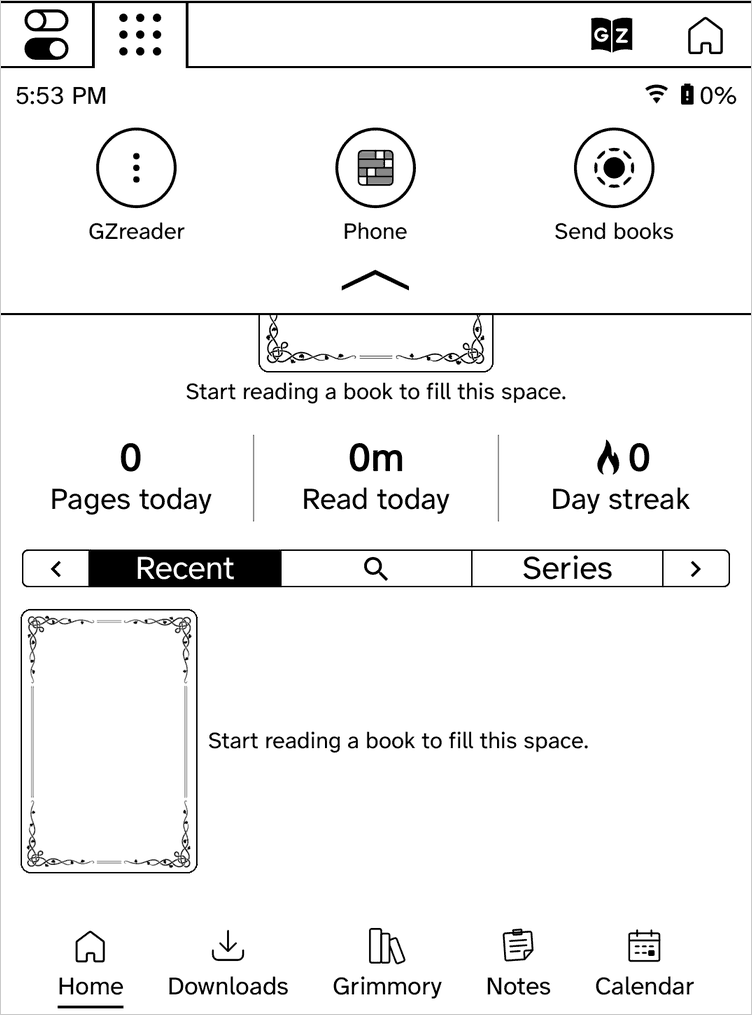
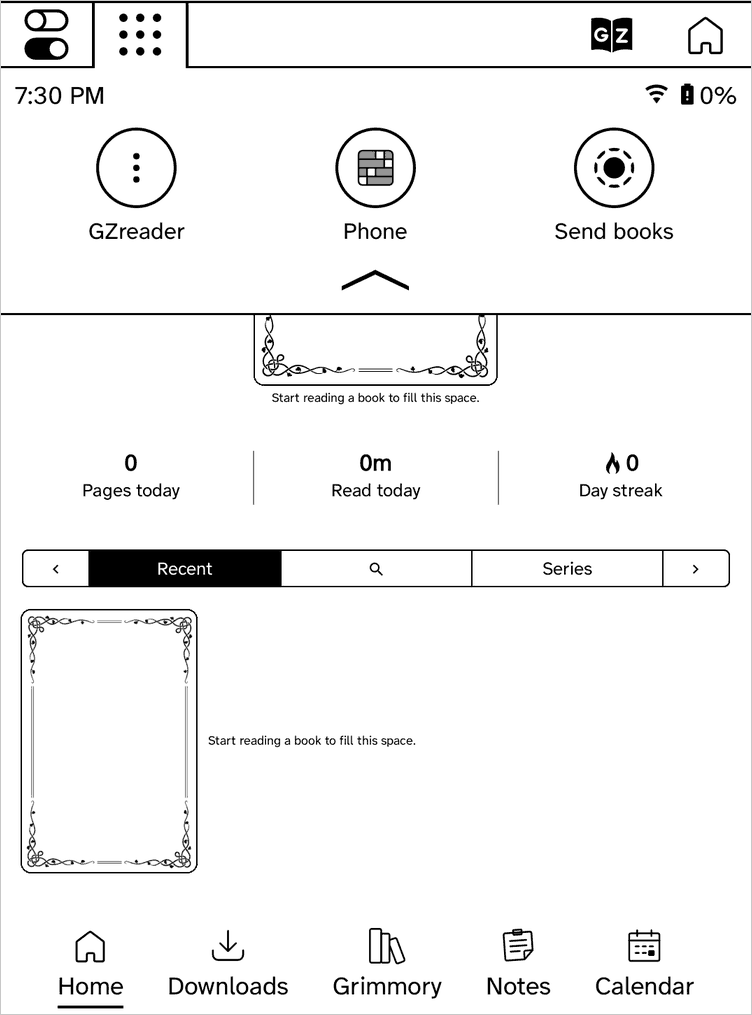
GZreader 1.10.0: read aloud on the Kindle Touch, Paperwhite Home text size, GZreader on the Kindle home
Read aloud on every Kindle with audio (Kindle 2, 3, DX, Touch): a Read
aloud ("Listen") button in ZenOS's quick panel, shown in a book where the
speech service is there, added once to existing panel layouts after Night.
Touch wording for its messages and settings help.

Paperwhite 3: ZenOS passed Screen:scaleBySize()'d sizes to Font:getFace,
which scales again, so Home's stats, strip tabs, placeholder lines, cover
badges, clock and quotes were about 1.8x too big on 1072 px (no change at
600 px). The size arguments are unscaled (45 call sites), the strip
controls' fitting and the badge sizes too.

The Kindle home screen (firmware 5) launcher is documents/GZreader.sh
("GZreader", GZreader's logo) instead of ZenOS's ZenReader.sh ("ZenOS"),
which is removed when found.

Claude-Session: https://claude.ai/code/session_01HqNYrwobY8un97LQ2jriQC

diff --git a/GZREADER.md b/GZREADER.md
@@ -82,7 +82,7 @@ anything fails, the previous files are put back. Then GZreader restarts.
 | Screen | 600 × 800 (DX 824 × 1200), 16 greys | 600 × 800, 16 greys | 600 × 800 | 1072 × 1448, 300 dpi |
 | Faster drawing (shadow screen) | yes | yes | (not needed) | (not needed) |
 | Audiobooks | yes | — (no audio) | yes (player buttons) | — (no audio) |
-| Read aloud (Kindle voice) | yes (Shift + Sym) | — | — | — |
+| Read aloud (Kindle voice) | yes (Shift + Sym) | — | yes (Listen in the quick panel) | — |
 | Volume buttons | yes | — | — | — |
 | Clock | UTC: set Settings → General → Time zone | same | the Kindle's own | the Kindle's own |
 
@@ -134,17 +134,21 @@ run the same GZreader with ZenOS's touch interface:
   right); tap an event for its details, a day in Week or Month to open it.
 - **The phone page:** tap Done on the Kindle when you're done (instead of
   Back).
+- **On the Kindle's own home screen** (firmware 5), GZreader shows as a
+  "GZreader" book with its logo (`documents/GZreader.sh`); tapping it starts
+  GZreader. It replaces ZenOS's "ZenOS" one from earlier versions.
 - **Reading:** tap the right side for the next page, the left side for the
   previous one, the top for the menu (contents, bookmarks, search, fonts…);
   swipe up for the page browser. ZenOS shows a few tips the first time.
 - **Audio:** the Kindle Touch plays audiobooks; the player has buttons for
   chapters, ±30 s, play / pause, sleep timer, volume, the description and
   close (Settings → Reader → Test audiobook playback finds what works on
-  its firmware). The Paperwhite has no speaker or headphone jack, so
-  audiobooks aren't offered there. Read aloud needs the keyboard Kindles'
-  Shift + Sym and their speech service.
+  its firmware). It also reads aloud with the Kindle's voice: in a book,
+  swipe down from the top and tap **Listen** in the quick panel (again to
+  stop); the first time, a short test finds the Kindle's voice. The
+  Paperwhite has no speaker or headphone jack, so neither is offered there.
 - Everything is sized for the screen (the Paperwhite's 1072 × 1448 at 300
-  dpi). The Kindle's own time zone is used (the time zone setting is for the
+  dpi): Home's text is the same size as on a Kindle 3. The Kindle's own time zone is used (the time zone setting is for the
   Kindles without one).
 
 ## Keyboard (Kindle 2, 3, DX)

diff --git a/README.md b/README.md
@@ -176,11 +176,13 @@ browser talking to the emulated Kindle.</sub>
   Filter and More in Notes; ◀ Today ▶ and More in Calendar; tap a checklist item to
   tick it; the note editor with the on-screen keyboard.
 - Sized for each screen (the Paperwhite's 300 dpi). The Kindle Touch plays
-  audiobooks with the player's buttons; the Paperwhite has no audio.
+  audiobooks with the player's buttons and reads aloud from the quick panel; the
+  Paperwhite has no audio.
 
-### 🔊 Read aloud (Kindle 2, 3, DX)
+### 🔊 Read aloud (Kindle 2, 3, DX, Touch)
 - Uses the **Kindle's own voice**. **Shift + Sym** starts and stops, like the stock
-  Kindle's Text-to-Speech.
+  Kindle's Text-to-Speech; on the Kindle Touch, **Listen** in the quick panel (swipe
+  down from the top while reading).
 - The sentence being read is **highlighted** and **pages turn by themselves**.
 - Speed and volume controls; the Kindle's volume buttons work while reading
   (and everywhere else in GZreader).
